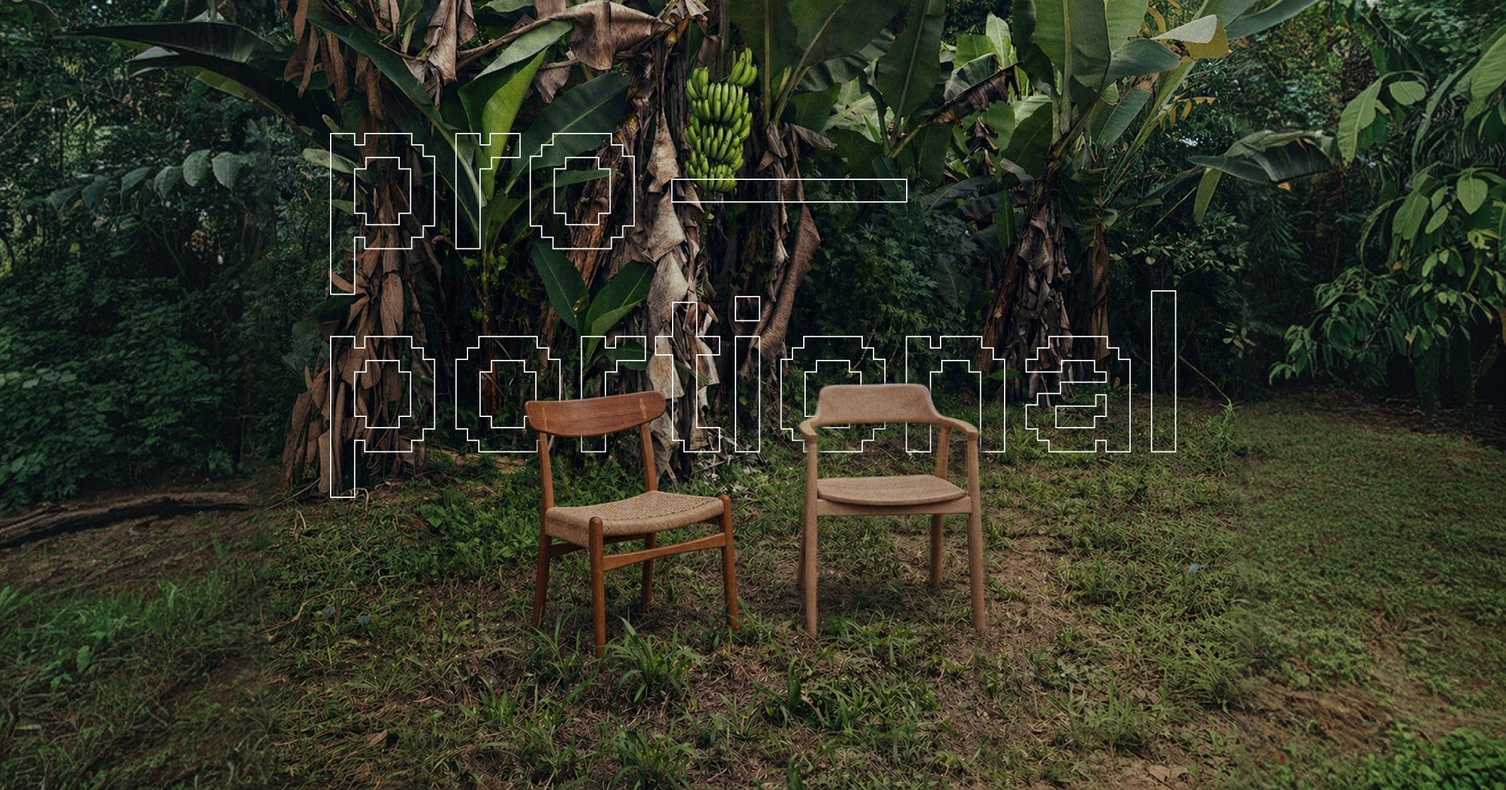
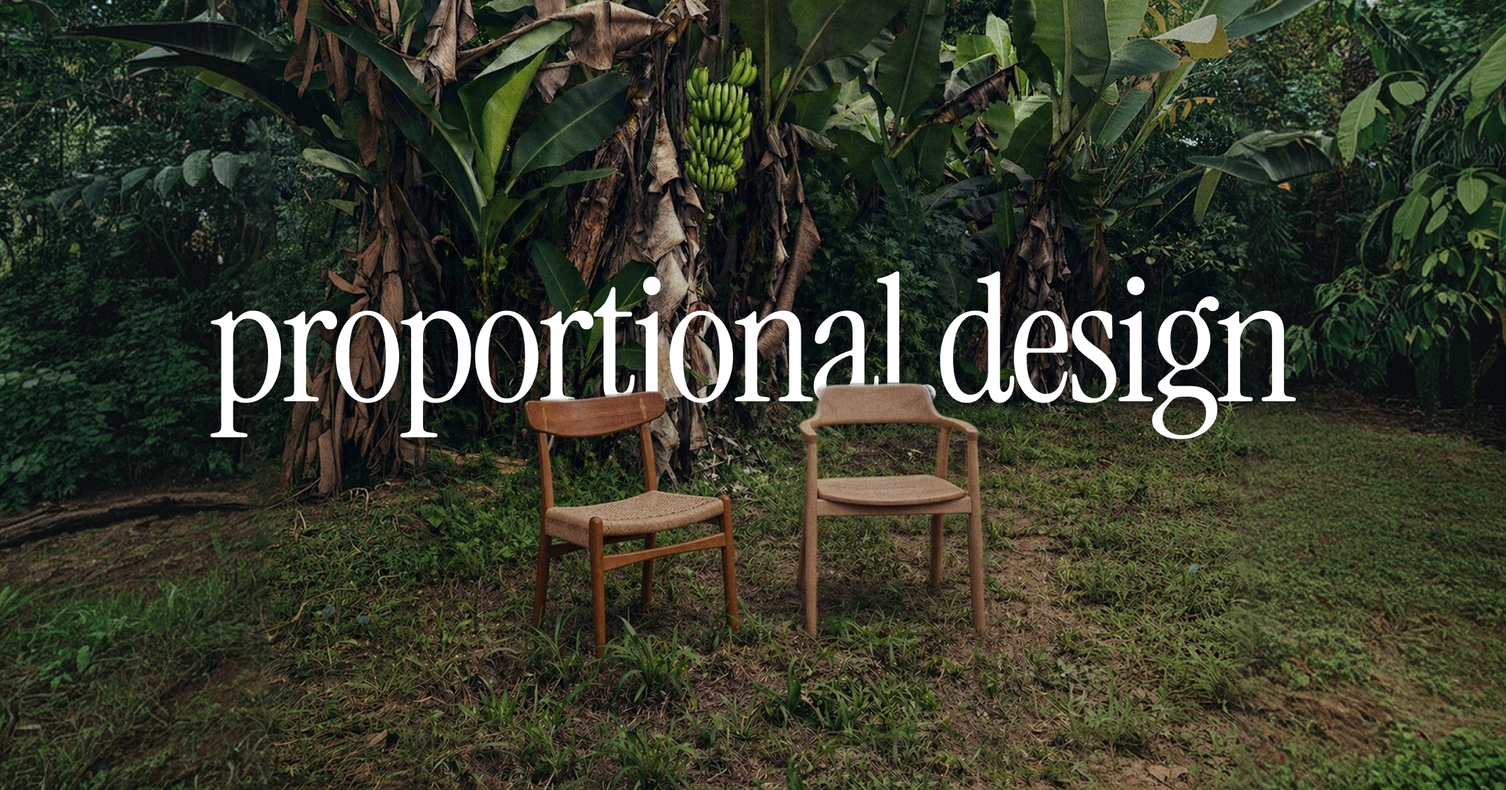
updated og image and pinned image

diff --git a/packages/foto/server/utils/list-photos.js b/packages/foto/server/utils/list-photos.js
@@ -10,9 +10,9 @@ cloudinary.config({
 
 const PINNED_ID = 'foto/1776966461078-sq@2x'
 const PINNED_LIGHTBOX_URL =
-  'https://res.cloudinary.com/dnxxsspmw/image/upload/v1776971496/og-image_2x_nogug8.webp'
+  'https://res.cloudinary.com/dnxxsspmw/image/upload/v1791383026/og-image__lg_3x_wolaqq.webp'
 const PINNED_LIGHTBOX_URL_SM =
-  'https://res.cloudinary.com/dnxxsspmw/image/upload/v1777671605/og-image-sq-sm_owbm9m.webp'
+  'https://res.cloudinary.com/dnxxsspmw/image/upload/v1791383026/og-image__sm_3x_desqjn.webp'
 const PINNED_THUMB_URL =
   'https://res.cloudinary.com/dnxxsspmw/image/upload/v1776971535/foto/1776966461078-sq%402x.webp'
 
